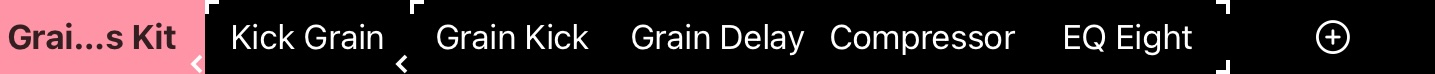
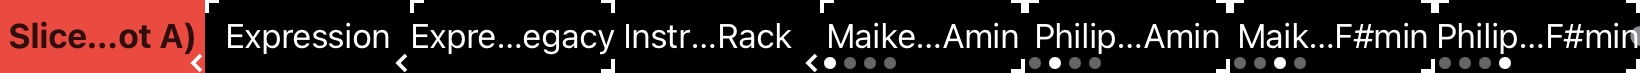
Added chain numbers to devices bar

diff --git a/content/tap/manual/_index.md b/content/tap/manual/_index.md
@@ -171,7 +171,7 @@ The devices are shown here.
 - You can navigate by swiping left or right. 
 - Select a device by tapping on it. The selected device has a bold font. 
 - Tap the ⊕ symbol to add a new random device. You can choose between adding a random sound, synth, drums (if you are in a MIDI track), or effect.
-- < (open) and > (closed) symbols indicate rack mothers. You can open and close racks by tapping on a selected rack mother. Chain start and ends are indicated by corner brackets.
+- < (open) and > (closed) symbols indicate rack mothers. You can open and close racks by tapping on a selected rack mother. Chain start and ends are indicated by corner brackets. The chain number is indicated with cirlces below the first member of the chain (for more than one chain per rack mother).
 
 {{ image_sets(path="content/tap/manual/Devices Bar.jpg", format="auto", op="fit_width", quality=75, alt="7III Tap Devices Bar", caption='The Devices Bar.') }}
 
